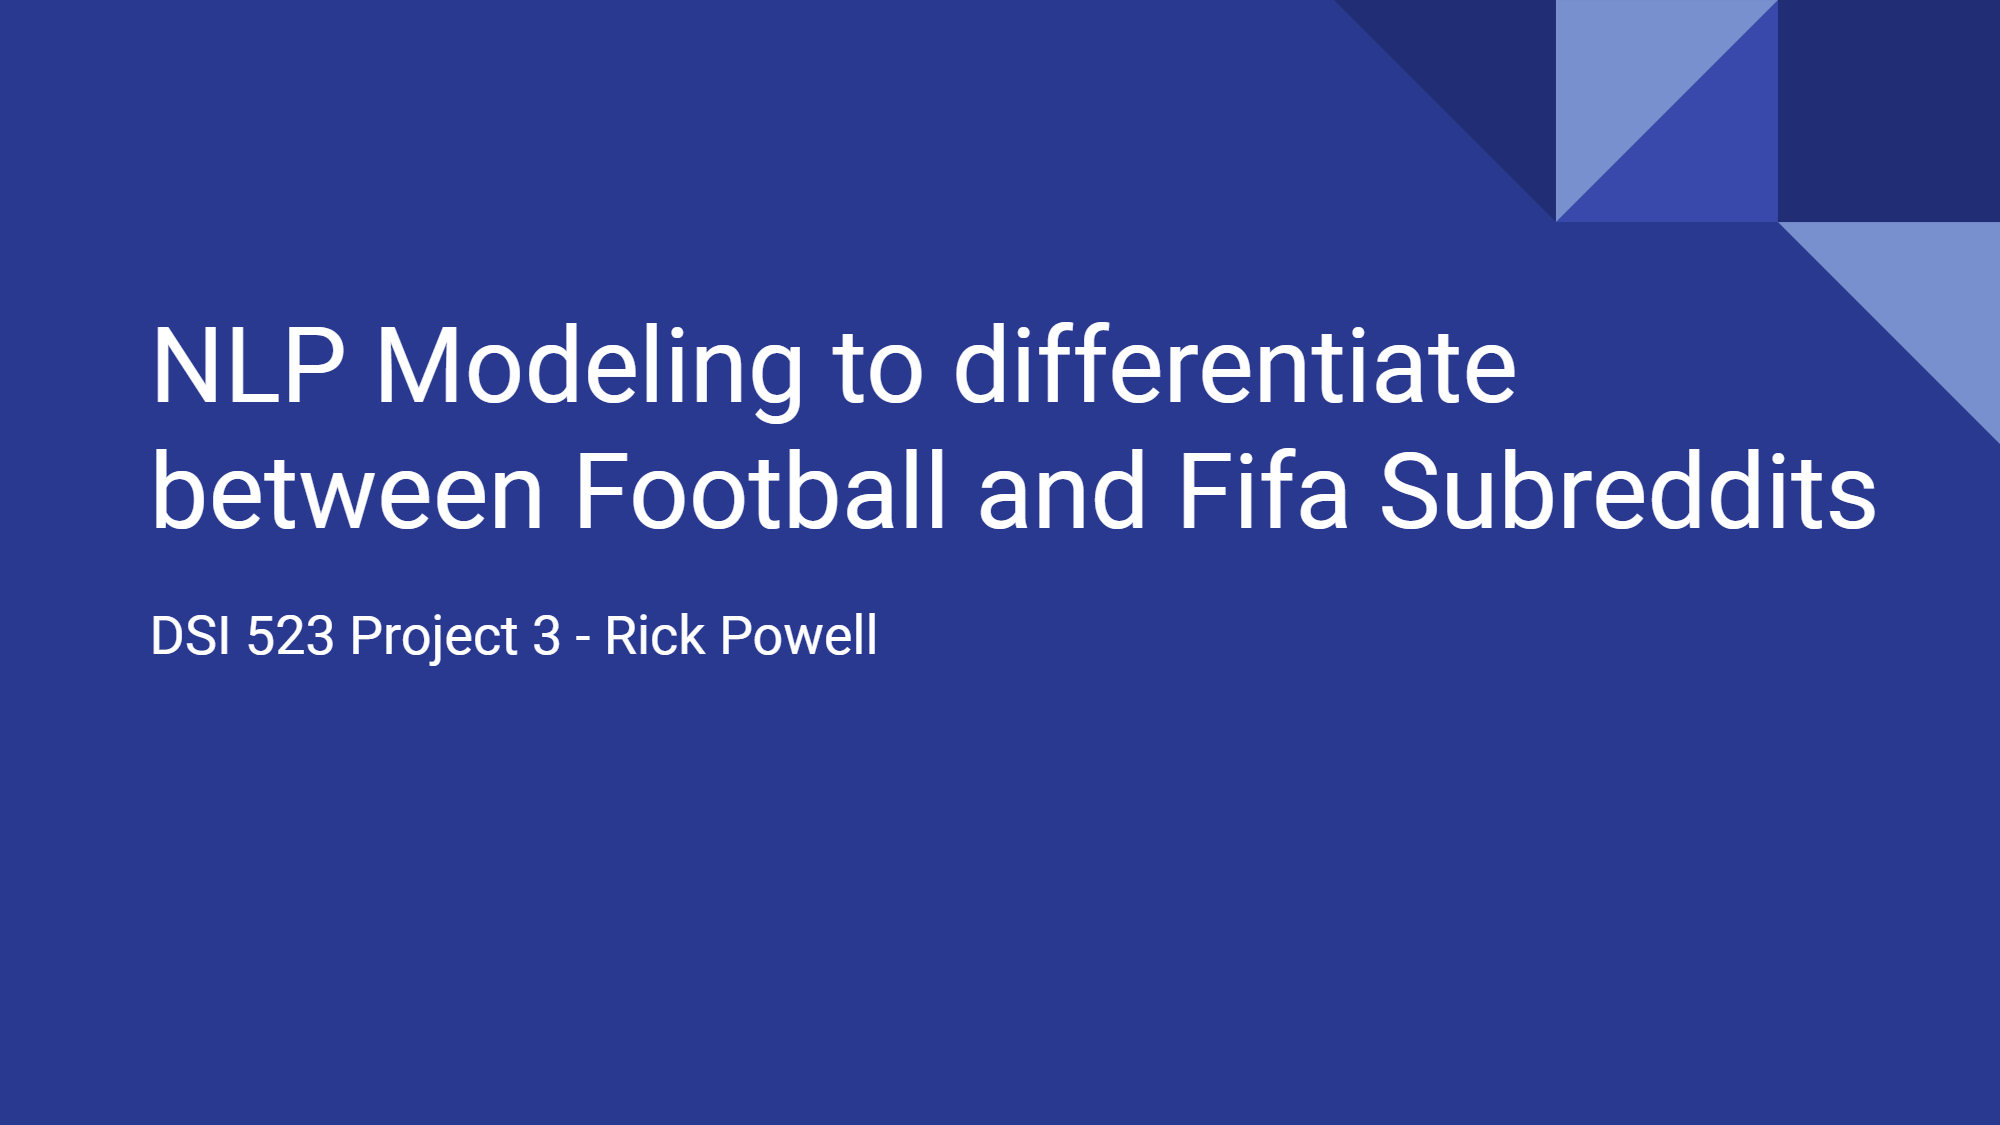
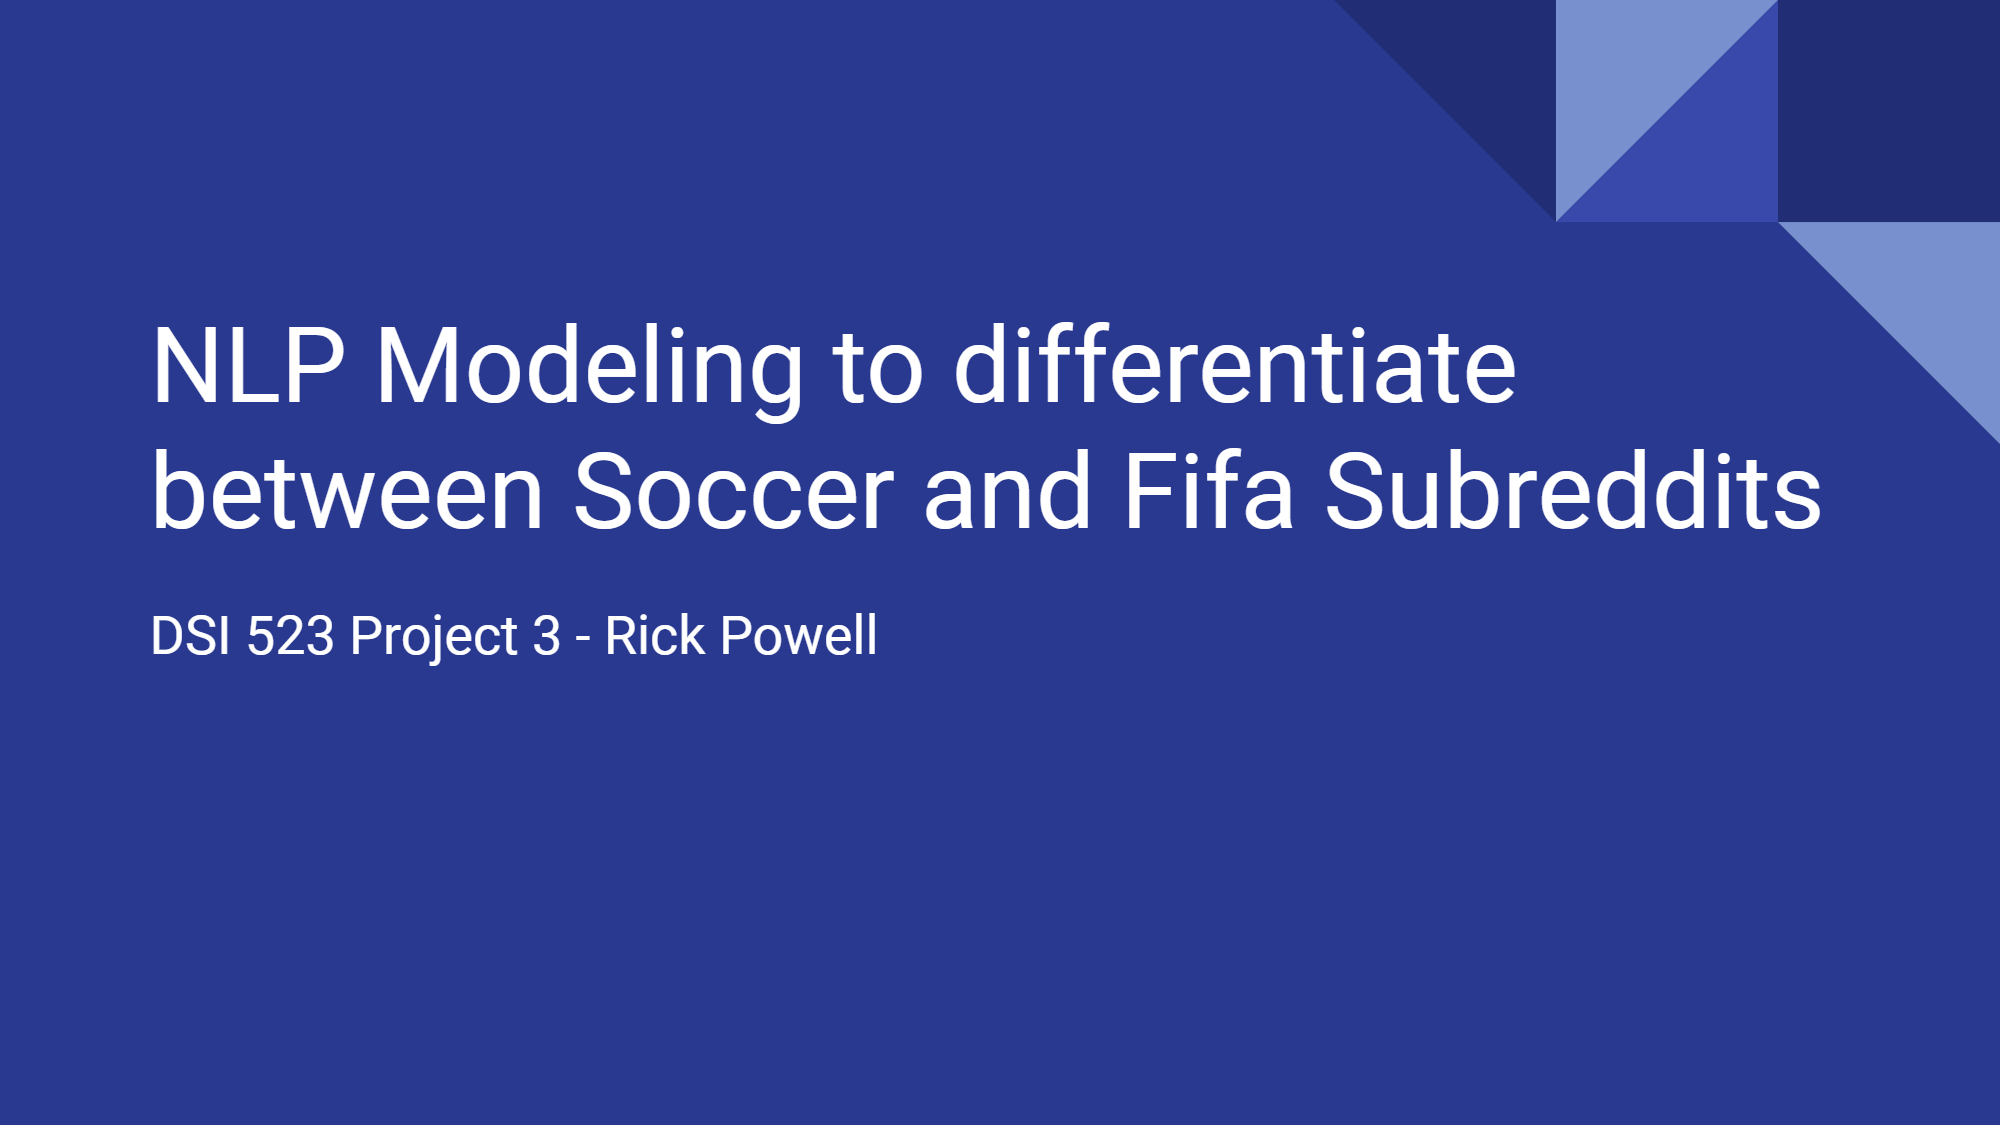
updatre 092922

Changed region(s): [[0.279, 0.4044, 0.961, 0.4667]]

diff --git a/index.html b/index.html
@@ -31,8 +31,8 @@
 						<header class="major">
 							<h2>Who am I?</h2>
 						</header>
-						<p>After 10 years of working in Healthcare IT, I wanted to make a change. Therefore, I left my job and took a Data Science Bootcamp in the hopes of making a career pivot. 
-							Over the following 3 months, I focused on learning Python, including pandas, exploratory data analysis, and modeling. Ready for a new position and applying around August 2022, I'm excited to see where my future goes.</p>
+						<p>After 10 years of working in Healthcare IT, I wanted to make a change. Therefore, I left my job and took a Data Science Bootcamp with the hopes of making a career pivot. 
+							Over the following 3 months, I focused on learning Python, including pandas, exploratory data analysis, and modeling. Ready for a new position and applying Fall 2022, I'm excited to see where my future goes.</p>
 						<ul class="actions">
 							<li><a href="https://www.linkedin.com/in/rickpowell07/" class="button">Learn More</a></li>
 						</ul>
@@ -55,7 +55,7 @@
 							<article class="col-6 col-12-xsmall work-item">
 								<a href="https://github.com/RPowell07/soccer_subreddits" class="image fit thumb"><img src="images/soccer_fifa_image.png" alt="" /></a>
 								<h3>Distinguishing Posts from Soccer Subreddits</h3>
-								<p>Using Natural Language Processing to differentiate between posts from the r/football and r/Fifa subreddits</p>
+								<p>Using Natural Language Processing to differentiate between posts from the r/soccer and r/Fifa subreddits with 93.5% accuracy</p>
 							</article>
 							<!-- <article class="col-6 col-12-xsmall work-item">
 								<a href="images/fulls/04.jpg" class="image fit thumb"><img src="images/thumbs/04.jpg" alt="" /></a>
